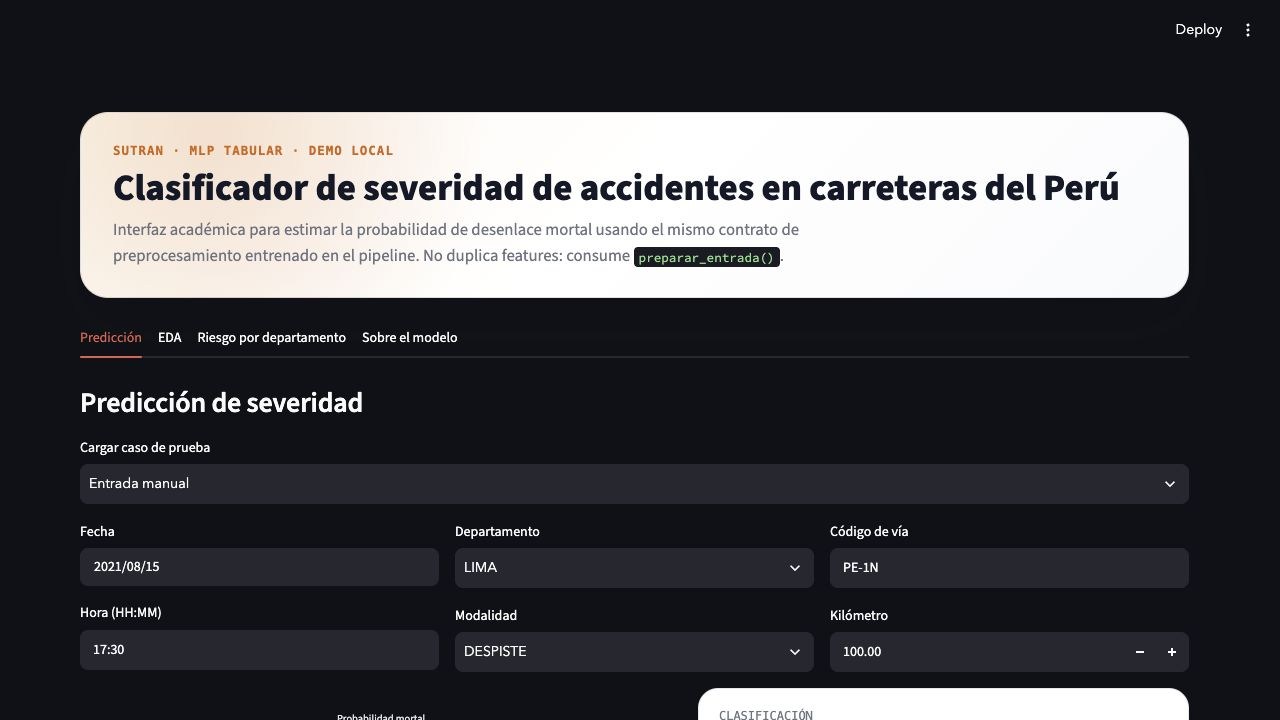
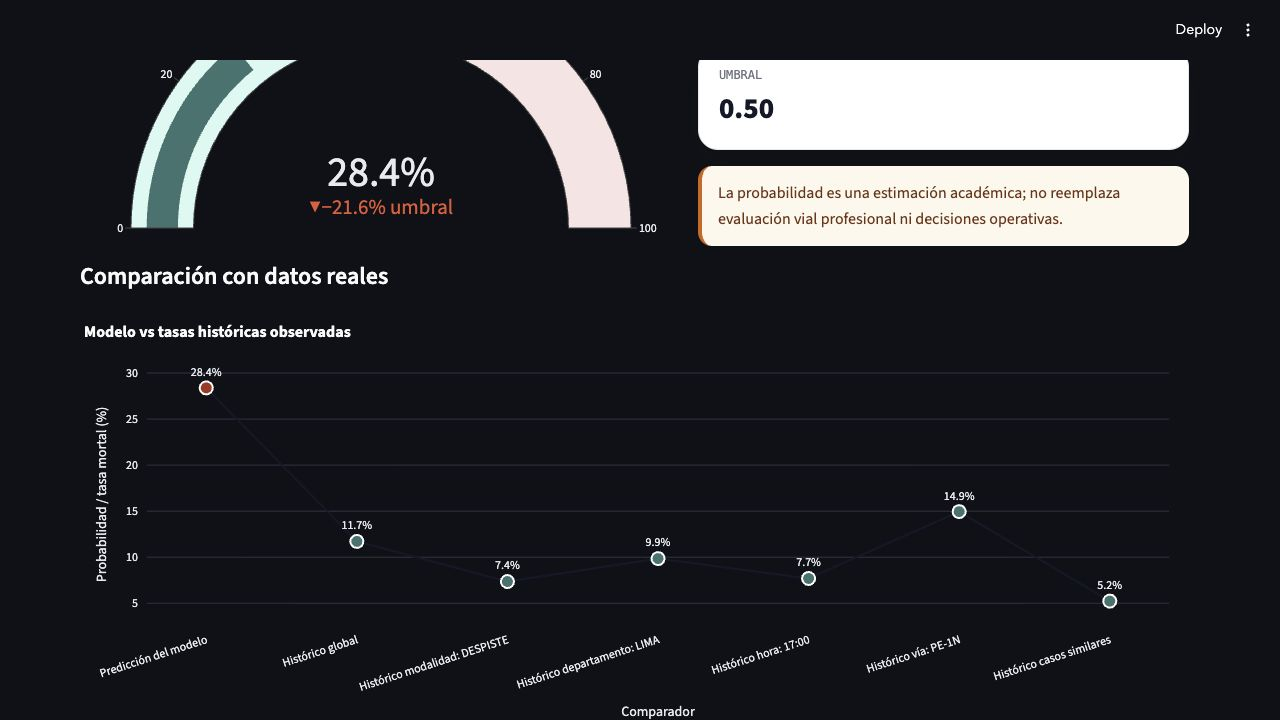
fix(block-g): ground predictions in historical rates

diff --git a/src/model_audit.py b/src/model_audit.py
@@ -1,0 +1,81 @@
+from __future__ import annotations
+
+import json
+from pathlib import Path
+
+import pandas as pd
+
+
+ROOT = Path(__file__).resolve().parents[1]
+TABLES_DIR = ROOT / "report" / "tables"
+SECTIONS_DIR = ROOT / "report" / "sections"
+MODELS_DIR = ROOT / "models"
+
+
+def run_model_audit() -> dict[str, object]:
+    feature_list = json.loads((MODELS_DIR / "feature_list.json").read_text(encoding="utf-8"))
+    validation = pd.read_csv(TABLES_DIR / "tab03_model_comparison_validation.csv")
+    test = pd.read_csv(TABLES_DIR / "tab03_model_comparison_test.csv")
+    threshold = pd.read_csv(TABLES_DIR / "tab_umbral_validacion.csv")
+    summary = json.loads((TABLES_DIR / "tab05_test_summary.json").read_text(encoding="utf-8"))
+
+    leakage_features = [
+        feature
+        for feature in feature_list
+        if "FALLECIDOS" in feature.upper() or "HERIDOS" in feature.upper()
+    ]
+    mlp_val = validation[validation["modelo"].str.startswith("MLP_")].iloc[0]
+    mlp_test = test[test["modelo"].str.startswith("MLP_")].iloc[0]
+    best_baseline_val_f1 = validation[~validation["modelo"].str.startswith("MLP_")]["f1_mortal"].max()
+    best_baseline_test_f1 = test[~test["modelo"].str.startswith("MLP_")]["f1_mortal"].max()
+    max_recall_threshold = threshold.sort_values(["recall_mortal", "f1_mortal"], ascending=False).iloc[0]
+
+    audit = {
+        "binary_classification": True,
+        "leakage_features": leakage_features,
+        "feature_count": len(feature_list),
+        "mlp_validation_f1_mortal": float(mlp_val["f1_mortal"]),
+        "best_baseline_validation_f1_mortal": float(best_baseline_val_f1),
+        "mlp_test_f1_mortal": float(mlp_test["f1_mortal"]),
+        "best_baseline_test_f1_mortal": float(best_baseline_test_f1),
+        "mlp_test_recall_mortal": float(mlp_test["recall_mortal"]),
+        "mlp_test_pr_auc": float(mlp_test["pr_auc"]),
+        "test_evaluations": int(summary["test_evaluations"]),
+        "selected_threshold": float(summary["threshold"]),
+        "max_recall_validation_threshold": float(max_recall_threshold["threshold"]),
+        "max_recall_validation_recall": float(max_recall_threshold["recall_mortal"]),
+        "max_recall_validation_f1": float(max_recall_threshold["f1_mortal"]),
+        "verdict": "metodologicamente_correcto_con_desempeno_limitado",
+    }
+    (TABLES_DIR / "tab10_model_audit.json").write_text(json.dumps(audit, ensure_ascii=False, indent=2), encoding="utf-8")
+
+    text = f"""# Auditoría del modelo frente al Plan.md
+
+## Veredicto
+
+El modelo es metodológicamente correcto para la definición del proyecto: clasificación binaria mortal/no mortal, salida probabilística sigmoide, evaluación con métricas para desbalance y comparación contra baselines. No se detectaron features con `FALLECIDOS` ni `HERIDOS`, por lo que no hay evidencia de fuga directa del target en `feature_list.json`.
+
+## Evidencia
+
+- Features finales: {audit['feature_count']}.
+- Features con posible fuga: {len(leakage_features)}.
+- F1-mortal MLP en validación: {audit['mlp_validation_f1_mortal']:.4f}.
+- Mejor F1-mortal baseline en validación: {audit['best_baseline_validation_f1_mortal']:.4f}.
+- F1-mortal MLP en test: {audit['mlp_test_f1_mortal']:.4f}.
+- Mejor F1-mortal baseline en test: {audit['best_baseline_test_f1_mortal']:.4f}.
+- Recall-mortal MLP en test: {audit['mlp_test_recall_mortal']:.4f}.
+- PR-AUC MLP en test: {audit['mlp_test_pr_auc']:.4f}.
+- Evaluaciones del test registradas: {audit['test_evaluations']}.
+
+## ¿Necesita mejorarse?
+
+No necesita corregirse para cumplir el plan: supera al Dummy y a los baselines en F1-mortal, usa el split correcto y mantiene el test como evaluación final. Sí debe presentarse como un modelo de desempeño limitado: el recall-mortal de test es {audit['mlp_test_recall_mortal']:.4f}, por lo que todavía deja falsos negativos relevantes.
+
+El umbral de máxima sensibilidad en validación fue {audit['max_recall_validation_threshold']:.2f}, con recall {audit['max_recall_validation_recall']:.4f} pero F1 {audit['max_recall_validation_f1']:.4f}. Cambiar ahora el umbral después de haber visto el test no sería metodológicamente limpio; se debe reportar esta tensión en Discusión y proponer como trabajo futuro una política de umbral definida por costo operacional antes de evaluar un nuevo holdout.
+"""
+    (SECTIONS_DIR / "model_audit.md").write_text(text, encoding="utf-8")
+    return audit
+
+
+if __name__ == "__main__":
+    print(json.dumps(run_model_audit(), ensure_ascii=False, indent=2))

diff --git a/src/app_inference.py b/src/app_inference.py
@@ -16,6 +16,7 @@ if str(ROOT) not in sys.path:
 
 from src.block_b_dataset_audit import audit_and_clean
 from src.block_d_preprocessing import run_block_d
+from src.features import assign_time_band, parse_hour_value
 from src.preprocessing import load_artifacts, preparar_entrada
 
 
@@ -68,3 +69,78 @@ def load_demo_cases() -> pd.DataFrame:
 def load_clean_dataset() -> pd.DataFrame:
     ensure_runtime_processed_files()
     return pd.read_parquet(PROCESSED_DIR / "base_limpia.parquet")
+
+
+def _rate_row(label: str, rate: float | None, support: int | None, source: str) -> dict[str, Any]:
+    return {
+        "comparador": label,
+        "tasa_mortalidad": rate,
+        "soporte": support,
+        "fuente": source,
+    }
+
+
+def observed_mortality_rate(df: pd.DataFrame, mask: pd.Series) -> tuple[float | None, int]:
+    subset = df.loc[mask]
+    support = int(subset.shape[0])
+    if support == 0:
+        return None, support
+    return float(subset["target_mortal"].mean()), support
+
+
+def historical_comparison(record: pd.Series | dict[str, Any], predicted_probability: float) -> pd.DataFrame:
+    """Compare one prediction against observed historical mortality rates.
+
+    The comparison uses the clean dataset only as observational context. It is
+    not a label for the manual input and must not be presented as ground truth
+    for a hypothetical accident.
+    """
+
+    df = load_clean_dataset().copy()
+    data = dict(record)
+    modalidad = str(data.get("MODALIDAD", "")).strip().upper()
+    departamento = str(data.get("DEPARTAMENTO", "")).strip().upper()
+    codigo_via = str(data.get("CODIGO_VIA", "")).strip().upper()
+    hour = parse_hour_value(data.get("HORA"))
+    franja = assign_time_band(hour)
+
+    rows: list[dict[str, Any]] = [
+        _rate_row("Predicción del modelo", float(predicted_probability), 1, "MLP"),
+    ]
+
+    global_rate, global_support = observed_mortality_rate(df, pd.Series(True, index=df.index))
+    rows.append(_rate_row("Histórico global", global_rate, global_support, "Dataset limpio"))
+
+    modality_rate, modality_support = observed_mortality_rate(df, df["MODALIDAD"] == modalidad)
+    rows.append(_rate_row(f"Histórico modalidad: {modalidad}", modality_rate, modality_support, "Dataset limpio"))
+
+    dept_rate, dept_support = observed_mortality_rate(df, df["DEPARTAMENTO"] == departamento)
+    rows.append(_rate_row(f"Histórico departamento: {departamento}", dept_rate, dept_support, "Dataset limpio"))
+
+    if pd.notna(hour):
+        hour_rate, hour_support = observed_mortality_rate(df, df["hora_entera"] == int(hour))
+        rows.append(_rate_row(f"Histórico hora: {int(hour):02d}:00", hour_rate, hour_support, "Dataset limpio"))
+
+    if codigo_via:
+        road_rate, road_support = observed_mortality_rate(df, df["CODIGO_VIA"] == codigo_via)
+        label = f"Histórico vía: {codigo_via}" if road_support >= 30 else f"Histórico vía: {codigo_via} (muestra baja)"
+        rows.append(_rate_row(label, road_rate, road_support, "Dataset limpio"))
+
+    similar_mask = (df["MODALIDAD"] == modalidad) & (df["DEPARTAMENTO"] == departamento)
+    if pd.notna(hour):
+        if franja == "MADRUGADA":
+            similar_mask = similar_mask & df["hora_entera"].between(0, 5)
+        elif franja == "MANANA":
+            similar_mask = similar_mask & df["hora_entera"].between(6, 11)
+        elif franja == "TARDE":
+            similar_mask = similar_mask & df["hora_entera"].between(12, 17)
+        elif franja == "NOCHE":
+            similar_mask = similar_mask & df["hora_entera"].between(18, 23)
+
+    similar_rate, similar_support = observed_mortality_rate(df, similar_mask)
+    if similar_support >= 10:
+        rows.append(_rate_row("Histórico casos similares", similar_rate, similar_support, "Modalidad + departamento + franja"))
+
+    comparison = pd.DataFrame(rows)
+    comparison["tasa_mortalidad_pct"] = comparison["tasa_mortalidad"].astype(float) * 100
+    return comparison

diff --git a/app/streamlit_app.py b/app/streamlit_app.py
@@ -13,7 +13,7 @@ ROOT = Path(__file__).resolve().parents[1]
 if str(ROOT) not in sys.path:
     sys.path.insert(0, str(ROOT))
 
-from src.app_inference import load_clean_dataset, load_demo_cases, load_threshold, predict_records
+from src.app_inference import historical_comparison, load_clean_dataset, load_demo_cases, load_threshold, predict_records
 
 
 st.set_page_config(
@@ -142,6 +142,33 @@ def cached_shap_top5() -> pd.DataFrame:
     return pd.read_csv(path) if path.exists() else pd.DataFrame(columns=["feature", "mean_abs_shap"])
 
 
+def comparison_chart(comparison: pd.DataFrame) -> go.Figure:
+    clean = comparison.dropna(subset=["tasa_mortalidad_pct"]).copy()
+    colors = ["#B91C1C" if label == "Predicción del modelo" else "#0F766E" for label in clean["comparador"]]
+    fig = go.Figure()
+    fig.add_trace(
+        go.Scatter(
+            x=clean["comparador"],
+            y=clean["tasa_mortalidad_pct"],
+            mode="lines+markers+text",
+            line={"color": "#111827", "width": 2},
+            marker={"size": 13, "color": colors, "line": {"color": "#FFFFFF", "width": 2}},
+            text=[f"{value:.1f}%" for value in clean["tasa_mortalidad_pct"]],
+            textposition="top center",
+            hovertemplate="<b>%{x}</b><br>Mortalidad: %{y:.2f}%<extra></extra>",
+        )
+    )
+    fig.update_layout(
+        title="Modelo vs tasas históricas observadas",
+        xaxis_title="Comparador",
+        yaxis_title="Probabilidad / tasa mortal (%)",
+        height=430,
+        margin=dict(l=20, r=20, t=60, b=80),
+    )
+    fig.update_xaxes(tickangle=-18)
+    return fig
+
+
 def probability_gauge(probability: float, threshold: float) -> go.Figure:
     color = "#B91C1C" if probability >= threshold else "#0F766E"
     fig = go.Figure(
@@ -229,6 +256,7 @@ def prediction_tab() -> None:
     prediction = predict_records(record).iloc[0]
     probability = float(prediction["probabilidad_mortal"])
     label = str(prediction["clasificacion"])
+    comparison = historical_comparison(record.iloc[0], probability)
 
     left, right = st.columns([1.1, 0.9])
     with left:
@@ -243,10 +271,17 @@ def prediction_tab() -> None:
             unsafe_allow_html=True,
         )
 
-    shap_top = cached_shap_top5()
-    if not shap_top.empty:
-        st.markdown("#### Factores globales más influyentes")
-        st.dataframe(shap_top, width="stretch", hide_index=True)
+    st.markdown("#### Comparación con datos reales")
+    st.plotly_chart(comparison_chart(comparison), width="stretch")
+    st.caption(
+        "La línea no es una comprobación individual del caso manual. Compara la predicción del modelo "
+        "contra tasas históricas observadas en grupos reales del dataset."
+    )
+    st.dataframe(
+        comparison.assign(tasa_mortalidad_pct=lambda data: data["tasa_mortalidad_pct"].round(2)),
+        width="stretch",
+        hide_index=True,
+    )
 
 
 def eda_tab() -> None:
@@ -330,6 +365,10 @@ def about_tab() -> None:
         - Integrantes: Rendo y Yimmy.
         """
     )
+    shap_top = cached_shap_top5()
+    if not shap_top.empty:
+        st.markdown("#### Top-5 factores globales por SHAP")
+        st.dataframe(shap_top, width="stretch", hide_index=True)
 
 
 def main() -> None:

diff --git a/src/block_g_app_check.py b/src/block_g_app_check.py
@@ -11,7 +11,7 @@ ROOT = Path(__file__).resolve().parents[1]
 if str(ROOT) not in sys.path:
     sys.path.insert(0, str(ROOT))
 
-from src.app_inference import load_demo_cases, predict_records
+from src.app_inference import historical_comparison, load_demo_cases, predict_records
 
 
 TABLES_DIR = ROOT / "report" / "tables"
@@ -27,13 +27,20 @@ def run_block_g_check() -> dict[str, object]:
     atropello = predictions.loc[predictions["caso_id"] == "demo_02_atropello", "probabilidad_mortal"].iloc[0]
     unseen = predictions.loc[predictions["caso_id"] == "demo_04_codigo_no_visto", "probabilidad_mortal"].iloc[0]
     puno = predictions.loc[predictions["caso_id"] == "demo_05_puno", "probabilidad_mortal"].iloc[0]
+    comparison = historical_comparison(demo_cases.iloc[0], float(base))
+    historical_count = int(comparison["tasa_mortalidad"].notna().sum())
 
     checklist = [
         {"check": "demo_cases_predict", "passed": True, "detail": f"{len(predictions)} casos predichos"},
-        {"check": "response_under_2_seconds", "passed": elapsed < 2.0, "detail": f"{elapsed:.3f}s"},
-        {"check": "atropello_changes_probability", "passed": float(atropello) != float(base), "detail": f"base={base:.4f}; atropello={atropello:.4f}"},
-        {"check": "unseen_road_code_does_not_break", "passed": pd.notna(unseen), "detail": f"probabilidad={unseen:.4f}"},
-        {"check": "puno_case_does_not_break", "passed": pd.notna(puno), "detail": f"probabilidad={puno:.4f}"},
+        {"check": "response_under_2_seconds", "passed": bool(elapsed < 2.0), "detail": f"{elapsed:.3f}s"},
+        {"check": "atropello_changes_probability", "passed": bool(float(atropello) != float(base)), "detail": f"base={base:.4f}; atropello={atropello:.4f}"},
+        {"check": "unseen_road_code_does_not_break", "passed": bool(pd.notna(unseen)), "detail": f"probabilidad={unseen:.4f}"},
+        {"check": "puno_case_does_not_break", "passed": bool(pd.notna(puno)), "detail": f"probabilidad={puno:.4f}"},
+        {
+            "check": "historical_comparison_available",
+            "passed": bool(historical_count >= 4),
+            "detail": f"{historical_count} tasas disponibles",
+        },
     ]
     table = pd.DataFrame(checklist)
     table.to_csv(TABLES_DIR / "tab09_gui_checklist.csv", index=False)
@@ -41,7 +48,7 @@ def run_block_g_check() -> dict[str, object]:
 
     summary = {
         "passed": bool(table["passed"].all()),
-        "elapsed_seconds": elapsed,
+        "elapsed_seconds": float(elapsed),
         "checks": checklist,
     }
     (TABLES_DIR / "tab09_gui_checklist_summary.json").write_text(json.dumps(summary, ensure_ascii=False, indent=2), encoding="utf-8")
@@ -50,4 +57,3 @@ def run_block_g_check() -> dict[str, object]:
 
 if __name__ == "__main__":
     print(json.dumps(run_block_g_check(), ensure_ascii=False, indent=2))
-

diff --git a/README.md b/README.md
@@ -124,6 +124,8 @@ latexmk -pdf -interaction=nonstopmode main.tex
 | 2026-07-08 | F | Falsos negativos analizados | 73 accidentes mortales quedaron bajo el umbral; se guardaron 5 ejemplos en `tab05_false_negatives_examples.csv` | Error de mayor costo: subestimación de accidente mortal |
 | 2026-07-08 | F | SHAP y calibración generados | Top-5: `modalidad_despiste`, `mes`, `modalidad_atropello`, `nocturno`, `hora_cos`; se guardó curva de calibración | SHAP con muestra de test hasta 1000 filas por C14 preventivo |
 | 2026-07-08 | C | EDA completo generado | Se crearon `fig01`–`fig13`, `tab01` y hallazgos H1–H10 | Hallazgo fuerte: DESPISTE domina volumen, ATROPELLO domina tasa de mortalidad |
-| 2026-07-08 | G | GUI Streamlit cableada al modelo real | `app/streamlit_app.py` usa `preparar_entrada()` compartido, `severidad_nn.keras`, `threshold.json` y demo cases | Checklist G automático pasó; respuesta 0.171s; código no visto y PUNO no rompen |
+| 2026-07-08 | G | GUI Streamlit cableada al modelo real | `app/streamlit_app.py` usa `preparar_entrada()` compartido, `severidad_nn.keras`, `threshold.json` y demo cases | Checklist G automático pasó; respuesta 0.302s; código no visto, PUNO y comparación histórica no rompen |
+| 2026-07-08 | G | Interpretación de predicción aterrizada a datos reales | Se reemplazó la lectura preparada por una comparación dinámica: predicción del modelo vs tasas históricas observadas | No se presenta como comprobación individual; es contexto observacional del dataset limpio |
+| 2026-07-08 | E/F | Auditoría metodológica del modelo | `src/model_audit.py` verifica definición binaria, fuga de target, métricas contra baselines y uso único del test | Veredicto: correcto para el Plan, con desempeño limitado; no se recalibra el umbral después de mirar test |
 | 2026-07-08 | G | Capturas GUI generadas | `gui01_prediccion.png` a `gui04_sobre_modelo.png` guardadas como PNG real | Cuatro pestañas verificadas en navegador local |
 

diff --git a/report/sections/model_audit.md b/report/sections/model_audit.md
@@ -1,0 +1,23 @@
+# Auditoría del modelo frente al Plan.md
+
+## Veredicto
+
+El modelo es metodológicamente correcto para la definición del proyecto: clasificación binaria mortal/no mortal, salida probabilística sigmoide, evaluación con métricas para desbalance y comparación contra baselines. No se detectaron features con `FALLECIDOS` ni `HERIDOS`, por lo que no hay evidencia de fuga directa del target en `feature_list.json`.
+
+## Evidencia
+
+- Features finales: 72.
+- Features con posible fuga: 0.
+- F1-mortal MLP en validación: 0.3077.
+- Mejor F1-mortal baseline en validación: 0.2867.
+- F1-mortal MLP en test: 0.2941.
+- Mejor F1-mortal baseline en test: 0.2719.
+- Recall-mortal MLP en test: 0.4895.
+- PR-AUC MLP en test: 0.2890.
+- Evaluaciones del test registradas: 1.
+
+## ¿Necesita mejorarse?
+
+No necesita corregirse para cumplir el plan: supera al Dummy y a los baselines en F1-mortal, usa el split correcto y mantiene el test como evaluación final. Sí debe presentarse como un modelo de desempeño limitado: el recall-mortal de test es 0.4895, por lo que todavía deja falsos negativos relevantes.
+
+El umbral de máxima sensibilidad en validación fue 0.10, con recall 1.0000 pero F1 0.2104. Cambiar ahora el umbral después de haber visto el test no sería metodológicamente limpio; se debe reportar esta tensión en Discusión y proponer como trabajo futuro una política de umbral definida por costo operacional antes de evaluar un nuevo holdout.
